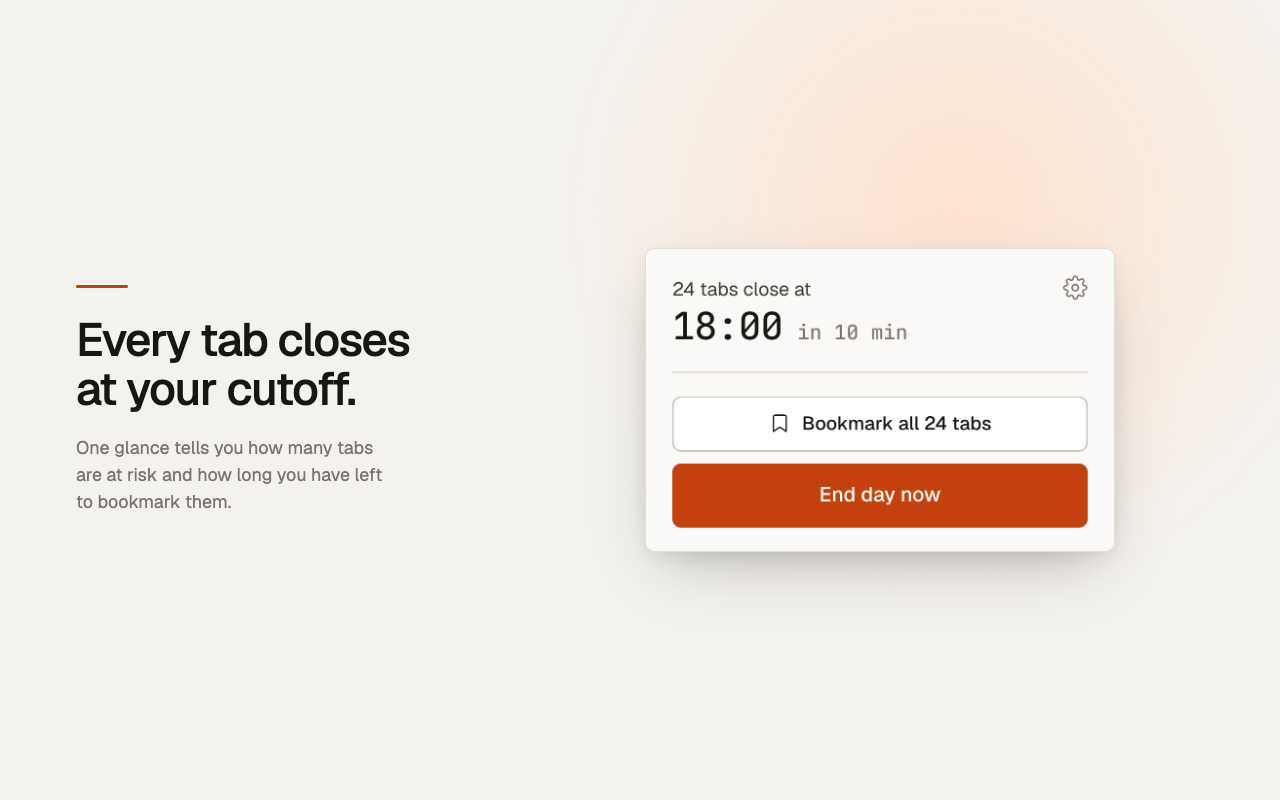
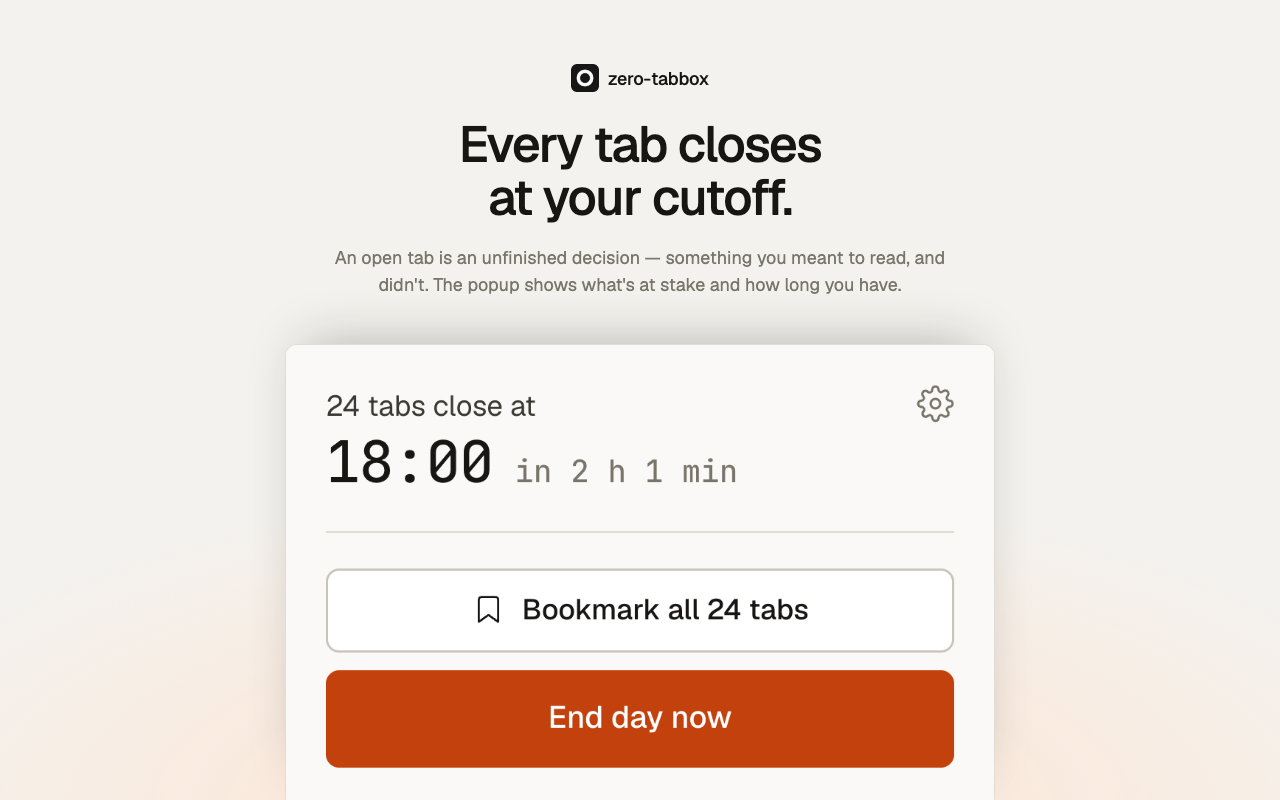
Tell the why across the listing, docs and screenshots
The listing, README and screenshots explained the mechanism but never the
reason to want it. Now they argue it: an open tab is an unfinished decision,
and a deadline is what lets the mind release it.

- store/listing.md: the detailed description opens with the attention
  argument before the mechanics; research alluded to, not cited.
- README.md: a "Why close everything" section before the contract, with the
  named citations (Leroy 2009 on attention residue; the CMU CHI 2021 tab
  study).
- Onboarding lede gains one why-line, in both locales.
- store/compose.mjs: new poster treatment — brand lockup, centered
  why-headline and caption, capture anchored to and bleeding off the bottom
  edge; per-frame widths tuned to each raw's aspect ratio. Screenshots
  regenerated at 1280x800, 24-bit RGB. AMO captions updated to match.
- Swept popup: the note line now renders only when the sweep bookmarked the
  tabs first; the unsaved state carries no note, and popupSweptNoteUnsaved
  is gone from both catalogs.

Claude-Session: https://claude.ai/code/session_0159jCHo8dYWoU85gt5CQ6t7

diff --git a/src/ui/popup.ts b/src/ui/popup.ts
@@ -241,9 +241,8 @@ function showSwept(closed: number, bookmarked: boolean, nextHhmm: string | null)
   // `count` looks unused — the numeral is a separate span — but it selects the
   // plural form.
   sweptUnit.textContent = t('popupSweptUnit', { count: closed });
-  sweptNote.textContent = bookmarked
-    ? t('popupSweptNoteBookmarked')
-    : t('popupSweptNoteUnsaved');
+  sweptNote.hidden = !bookmarked;
+  if (bookmarked) sweptNote.textContent = t('popupSweptNoteBookmarked');
   sweptNextCutoff.textContent = nextHhmm ?? '--:--';
 }
 

diff --git a/src/ui/popup.html b/src/ui/popup.html
@@ -69,7 +69,8 @@
                leave it English. showSwept() writes it with t(key, {count}). -->
           <span id="swept-unit" class="swept-unit">tabs closed</span>
         </p>
-        <p id="swept-note" class="swept-note" data-i18n="popupSweptNoteUnsaved">Nothing was saved. One clean window is left.</p>
+        <!-- Only shown when the sweep bookmarked the tabs; showSwept() fills it. -->
+        <p id="swept-note" class="swept-note" hidden></p>
       </div>
 
       <hr class="divider" />

diff --git a/src/ui/onboarding.html b/src/ui/onboarding.html
@@ -29,6 +29,7 @@
           Every tab closes at <span id="cutoff-time">18:00</span>.
         </h1>
         <p class="onboarding-lede">
+          <span data-i18n="onboardingWhy">Every tab kept for later keeps a piece of your attention.</span>
           <span data-i18n="onboardingLede">Bookmarks are the only way to keep a page.</span>
           <strong data-i18n="onboardingLedeTerms">Read the terms before you keep the extension.</strong>
         </p>

diff --git a/README.md b/README.md
@@ -9,6 +9,31 @@ knowing that in advance is what changes how you use tabs.
 
 ---
 
+## Why close everything
+
+An open tab is an unfinished decision. You meant to read it, answer it, or
+sort it — and didn't. Deferred decisions don't rest: research on [attention
+residue](https://www.sciencedirect.com/science/article/abs/pii/S0749597809000399)
+(Leroy, 2009) finds that unfinished tasks keep claiming attention long after
+you switch away, and that what lets the mind actually release a task is
+finishing it under time pressure — a deadline. That finding is the
+extension's mechanism: the cutoff is the deadline that closes the loops.
+
+Tabs are where those loops pile up. In a [CMU study of tab
+use](https://dl.acm.org/doi/10.1145/3411764.3445585) (CHI 2021), more than
+half of participants felt unable to close tabs they knew were stale, a third
+described themselves as tab hoarders, and tabs were kept as reminders, as
+to-do lists, and out of fear of not finding a page again — while leaving
+people stressed, distracted, and embarrassed. The cost of keeping every
+option open is paid in the currency the tabs were opened for: attention.
+
+zero-tabbox moves the deciding away from the moment you are weakest — "maybe
+later" — to the moment the badge starts counting down. If a page still
+matters then, bookmarking it is a real decision, made once. Everything else
+was never going to be read, and after the cutoff it no longer has to be
+carried. That is the digital-minimalism bet this extension makes: a few
+things chosen deliberately beat an archive of everything.
+
 ## The contract
 
 This is the whole product. Read it before you install it.

diff --git a/store/README.md b/store/README.md
@@ -71,10 +71,10 @@ and at the top of the listing.
 
 | # | File | Shows | AMO caption |
 | --- | --- | --- | --- |
-| 1 | `01-popup-live.png` | The popup: how many tabs are at risk, the next cutoff, the countdown, both actions | What is at stake, and how long you have. |
+| 1 | `01-popup-live.png` | The popup: how many tabs are at risk, the next cutoff, the countdown, both actions | An open tab is an unfinished decision. This is what is at stake, and how long you have. |
 | 2 | `02-onboarding.png` | The install-time contract | Nothing is scheduled until you accept these terms. |
-| 3 | `03-options.png` | Every setting there is, including the interface language | Up to four cutoffs. No pause, no snooze, no restore. |
-| 4 | `04-popup-swept.png` | The "Day ended" state | The day ends at zero. Nothing is saved. |
+| 3 | `03-options.png` | Every setting there is, including the interface language | A deadline is what lets the mind let go — it works because it cannot be negotiated. |
+| 4 | `04-popup-swept.png` | The "Day ended" state | The day ends at zero. What mattered is in your bookmarks; the rest no longer has to be carried. |
 | 5 | `05-theme.png` | The popup in light and dark | Follows the system theme. |
 
 Shot 2 does double duty: it is the most distinctive thing the extension has,

diff --git a/store/listing.md b/store/listing.md
@@ -12,7 +12,11 @@ The Privacy practices tab answers live in [`store-compliance.md`](../store-compl
 **Detailed description**
 
 ```
-zero-tabbox closes every open tab at times of day you choose. That is all it does.
+Every tab closes at your cutoff. Your attention is finite, and every open tab keeps a claim on it.
+
+An open tab is an unfinished decision: something you meant to read or deal with, and didn't. Research on task switching shows that unfinished business keeps claiming attention until a deadline ends it — and studies of tab overload find that most people hang on to tabs they know they will never read, and feel worse for it. If you have twenty minutes to read one article, you should spend them reading it, not choosing among twenty.
+
+zero-tabbox is that deadline. It closes every open tab at times of day you choose. That is all it does.
 
 Pick up to four cutoffs a day. Before each one the toolbar badge counts down, and one system notification tells you the time is coming. At the cutoff every tab in every window closes, and you are left with a single clean new tab.
 
